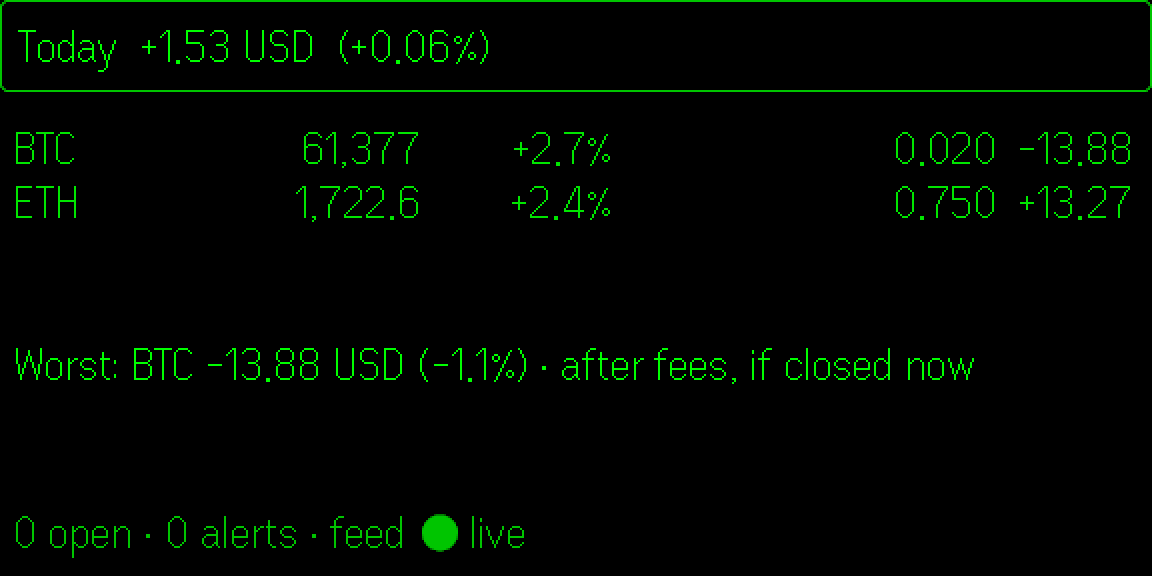
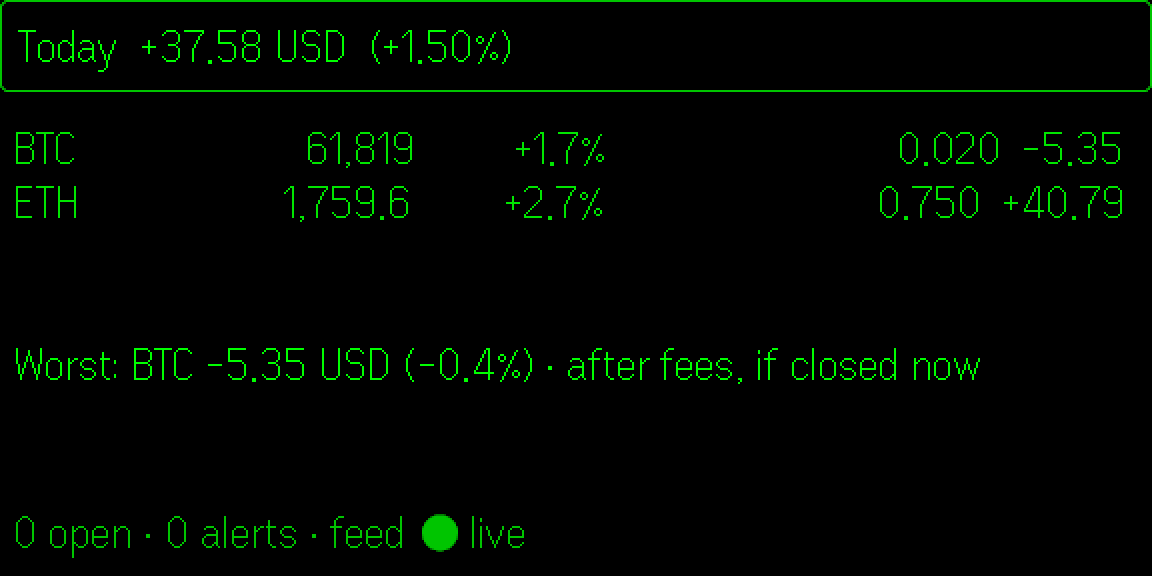
Right-align with real space glyphs only: firmware font has no U+2009; pick per-column target edge (within 3 px)

diff --git a/app/src/layout.ts b/app/src/layout.ts
@@ -1,8 +1,9 @@
 // Pure layout for the 576x288 monochrome display. No SDK imports here so it is unit-testable in Node.
 // Rules measured in the simulator before the hackathon (README "Display rules"):
 // - line height 28 px; a text container needs h = lines x 28 + 2 x padding or a scrollbar appears
-// - no text alignment and a proportional font -> right-align numbers by left-padding with
-//   normal spaces and U+2009 thin spaces, widths taken from the firmware glyph table (pretext)
+// - no text alignment and a proportional font -> right-align numbers by left-padding with normal
+//   spaces (5 px), widths from the firmware glyph table (pretext). The firmware font has no thin
+//   space (U+2009 logs "glyph not found" and falls back to a placeholder), so only real glyphs are used.
 // - a 1 px border eats 2 px of that height (measured 11-23: h=44 + border showed a scrollbar)
 // - one container per column (multi-line), not one per cell: the SDK allows 8 text containers
 // - the footer is pinned at y=244 and is the event-capture layer
@@ -69,7 +70,6 @@ export function pageKind(s: DeskState | null): PageKind {
 
 const MINUS = '−'
 const SP = ' '
-const THIN = ' '
 
 export function fmtNum(x: number, digits: number): string {
   const s = Math.abs(x).toLocaleString('en-US', { minimumFractionDigits: digits, maximumFractionDigits: digits })
@@ -88,26 +88,36 @@ export function fmtQty(q: number): string {
   return fmtNum(q, d)
 }
 
-/** Left-pad `s` with normal + thin spaces so its right edge lands at `w` px (error <= 1 px measured). */
+/** Left-pad `s` with normal spaces so its right edge lands as close to `w` px as 5 px steps allow, never past it. */
 export function rpad(s: string, w: number): string {
-  // getAdvW is in 1/16 px and reports 0 for U+2009, so measure whole strings (kerning included).
-  const sp = getTextWidth(SP)
-  const th = getTextWidth(THIN)
-  const gap = w - getTextWidth(s)
-  if (gap <= 0) return s
+  // Measure whole strings: kerning between the space and the first glyph changes the step.
   let best = s
-  let err = gap
-  for (let a = 0; a * sp <= gap + sp; a++) {
-    for (const b of [Math.floor((gap - a * sp) / th), Math.ceil((gap - a * sp) / th)]) {
-      if (b < 0) continue
-      const cand = SP.repeat(a) + THIN.repeat(b) + s
-      const e = Math.abs(w - getTextWidth(cand))
-      if (e < err) { err = e; best = cand }
-    }
+  let err = Math.abs(w - getTextWidth(s))
+  for (let a = 1; ; a++) {
+    const cand = SP.repeat(a) + s
+    const cw = getTextWidth(cand)
+    if (cw > w) break
+    if (w - cw < err) { err = w - cw; best = cand }
   }
   return best
 }
-const col = (xs: string[], w: number) => xs.map((s) => rpad(s, w)).join('\n')
+
+/**
+ * Right-align a column. Spaces come in 5 px steps, so each line can miss the target by up to 4 px;
+ * try the 5 possible targets w-4..w and keep the one where the lines' right edges agree best.
+ */
+export function alignCol(xs: string[], w: number): string[] {
+  let best: string[] = xs
+  let spread = Infinity
+  for (let t = w; t > w - 5; t--) {
+    const out = xs.map((s) => rpad(s, t))
+    const ws = out.map((s) => getTextWidth(s))
+    const sp = Math.max(...ws) - Math.min(...ws)
+    if (sp < spread) { spread = sp; best = out }
+  }
+  return best
+}
+const col = (xs: string[], w: number) => alignCol(xs, w).join('\n')
 
 const L = {
   en: { stopAt: (px: string, d: string) => `stop ${px} (${d}%)`, today: 'Today', na: '—', live: 'feed ● live', stale: (s: number) => `feed ○ STALE ${s}s · prices frozen`, connecting: 'feed ○ connecting…', offline: 'backend offline · retrying', open: (n: number) => `${n} open`, alerts: (n: number) => `${n} alert${n === 1 ? '' : 's'}`, flat: 'flat', old: 'old', worst: 'Worst', afterFees: 'after fees, if closed now' },

diff --git a/app/test/layout.test.ts b/app/test/layout.test.ts
@@ -1,7 +1,7 @@
 import { test } from 'node:test'
 import assert from 'node:assert/strict'
 import { getTextWidth } from '@evenrealities/pretext'
-import { pnlPage, overflows, rpad, fmtNum, signed, type DeskState } from '../src/layout.ts'
+import { pnlPage, overflows, rpad, alignCol, fmtNum, signed, type DeskState } from '../src/layout.ts'
 
 // Shape of a real /api/state response captured 2026-11-23 08:28 UTC.
 const real: DeskState = {
@@ -24,10 +24,21 @@ test('number formatting uses a real minus sign and no "-0.00"', () => {
   assert.equal(signed(0.001, 2), '0.00')
 })
 
-test('rpad lands within 1 px of the target width', () => {
+test('rpad uses only glyphs the firmware font has and never overshoots', () => {
   for (const s of ['61,240', '1,719.9', '+2.8%', '−0.1%', '0.020  −16.63']) {
     const out = rpad(s, 150)
-    assert.ok(Math.abs(getTextWidth(out) - 150) <= 1, `${s}: ${getTextWidth(out)}`)
+    assert.ok(!/[ - ]/.test(out), `${s}: thin/odd space`)
+    const w = getTextWidth(out)
+    assert.ok(w <= 150 && w >= 146, `${s}: ${w}`)
+  }
+})
+
+test('alignCol keeps right edges of real price columns within 3 px (3 lines in 5 px steps cannot do better)', () => {
+  // real column inner widths from pnlPage: price 104, 24h 80, position 244
+  const cols: [string[], number][] = [[['61,377', '1,722.6', '—'], 104], [['+2.7%', '+2.4%', '−0.1%'], 80], [['0.020  −13.88', '0.750  +13.27', 'flat'], 244], [['64,310', '1,719.9', '187.42'], 104]]
+  for (const [xs, w] of cols) {
+    const ws = alignCol(xs, w).map((s) => getTextWidth(s))
+    assert.ok(Math.max(...ws) - Math.min(...ws) <= 3 && Math.max(...ws) <= w, `${xs}: ${ws}`)
   }
 })
 

diff --git a/README.md b/README.md
@@ -139,8 +139,10 @@ The demo portfolio is stored in `server/data/fills.json` (resting orders in `ord
 
 - Line height 28 px; a text container needs `lines x 28 + 2 x padding` (+2 with a border) or a scrollbar appears.
 - `textContainerUpgrade` changes text and brightness but never size, so the page geometry is fixed and does not depend on data.
-- The font is proportional and containers have no alignment: numbers are right-aligned by left-padding with normal and
-  thin (U+2009) spaces, using the firmware glyph widths from `@evenrealities/pretext` (within 1 px).
+- The font is proportional and containers have no alignment: numbers are right-aligned by left-padding with normal
+  spaces, using the firmware glyph widths from `@evenrealities/pretext`. The firmware font has no thin space (U+2009
+  logs `glyph not found` and falls back to a placeholder that real glasses may draw), so only the 5 px space is used,
+  and each column picks the target edge where its lines agree best (3 lines in 5 px steps: right edges within 3 px, the best possible).
 - Brightness levels 1 and 3 render only ~180 vs ~230, too subtle to carry a warning alone, hence the explicit `old` marker.
 
 ## Built during the hackathon
